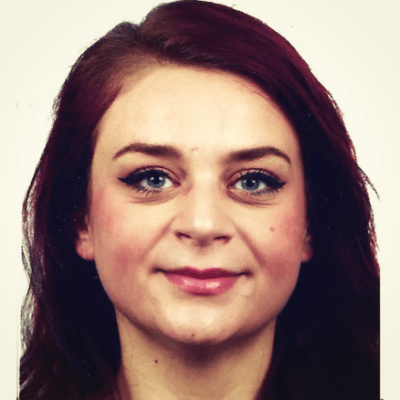
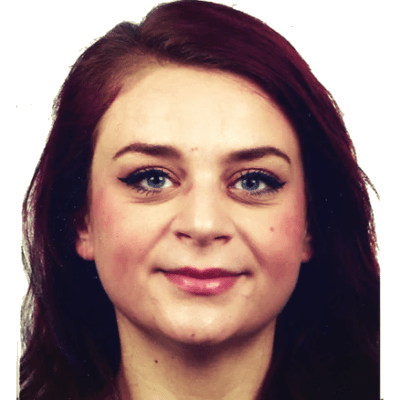
refactor(news): update post tables

diff --git a/css/md-style.css b/css/md-style.css
@@ -103,3 +103,58 @@ th {
   background-color: var(--highlight) !important;
   transition: all 0.5s !important;
 }
+
+.info-table {
+  width: 90%;
+  max-width: 900px;
+  margin: 40px auto;
+  background: var(--semantics-blue-light);
+  border-radius: 12px;
+  padding: 10px;
+  /*box-shadow: 0 2px 8px rgba(0,0,0,0.08);*/
+  border: 2px solid var(--semantics-blue-dark);
+}
+
+.info-row {
+  display: grid;
+  grid-template-columns: 1fr 3fr;
+  padding: 5px 0;
+  border-bottom: 0.5px solid var(--semantics-blue-dark);
+}
+
+.info-row:last-child {
+  border-bottom: none;
+}
+
+.label {
+  font-weight: bold;
+  color: var(--semantics-blue-dark);
+  font-size: 16px;
+}
+
+.value {
+  font-size: 15px;
+  color: var(--semantics-blue-dark);
+}
+
+.value a {
+  color: var(--link) !important;
+  font-weight: bold;
+  text-decoration: none;
+}
+
+.value a:hover {
+  color: var(--highlight) !important;
+  transition: all 0.5s !important;
+}
+
+a {
+  color: var(--link) !important;
+  font-weight: bold;
+  text-decoration: none;
+}
+
+a:hover {
+  color: var(--highlight) !important;
+  transition: all 0.5s !important;
+}

diff --git a/content/news/2026-03-31.md b/content/news/2026-03-31.md
@@ -14,27 +14,21 @@ To remain attractive, we strive to create a top-tier environment where researche
 
 Sara Todorovikj, a PhD student and research assistant in Computer Science at the Chemnitz University of Technology, Germany, Sara’s work focuses on cognitive modelling, knowledge representation, and reasoning. She is currently exploring context-dependent reasoning to develop more usable and interpretable semantic technologies.
 
-<table style="width: 100%;">
-    <tr>
-        <td><img src="../img/person/Todorovikj.png"  style="width: 50%;"></td>
-        <td>
-            <p style="text-align: justify;">“The atmosphere at SEMANTiCS was very inclusive and open, which was particularly important for a newcomer like me. It made it easy to feel part of the community by the first lunch break. As a woman in the field, I appreciated the visibility of diverse voices and the openness of the discussions across both academia and industry.”</p>
-            <h4 style="text-align: justify;">Sara Todorovikj</h2>
-        </td>
-    </tr>
-</table>
+<div class="info-table">
+  <div class="info-row">
+    <div class="label"><img src="../img/person/Todorovikj.png" style="width: 80%"></div>
+    <div class="value">“The atmosphere at SEMANTiCS was very inclusive and open, which was particularly important for a newcomer like me. It made it easy to feel part of the community by the first lunch break. As a woman in the field, I appreciated the visibility of diverse voices and the openness of the discussions across both academia and industry.” <h4>Sara Todorovikj</h4></div>
+  </div>
+</div>
 
 Similarly, Desiree Heim, a PhD student at RPTU University Kaiserslautern-Landau and a researcher at the German Research Center for Artificial Intelligence (DFKI), Desiree attended the conference online. Her research investigates combining the strengths of Knowledge Graphs and Large Language Models to provide situation-aware support for knowledge workers.
 
-<table style="width: 100%;">
-    <tr>
-        <td><img src="../img/person/Heim.png"  style="width: 50%;"></td>
-        <td>
-            <p style="text-align: justify;">“Even though I joined last year's conference online, I experienced the SEMANTiCS as a conference setting accents for an inclusive, diverse community and am eager to experience this atmosphere in person this year.”</p>
-            <h4 style="text-align: justify;">Desiree Heim</h2>
-        </td>
-    </tr>
-</table>
+<div class="info-table">
+  <div class="info-row">
+    <div class="label"><img src="../img/person/Heim.png" style="width: 80%"></div>
+    <div class="value">“Even though I joined last year's conference online, I experienced the SEMANTiCS as a conference setting accents for an inclusive, diverse community and am eager to experience this atmosphere in person this year.” <h4>Desiree Heim</h4></div>
+  </div>
+</div>
 
 These testimonials reinforce our belief that we are on the right path. They show that building a welcoming and supportive environment is not only a goal, but something that is already being experienced by members of our community.
 
